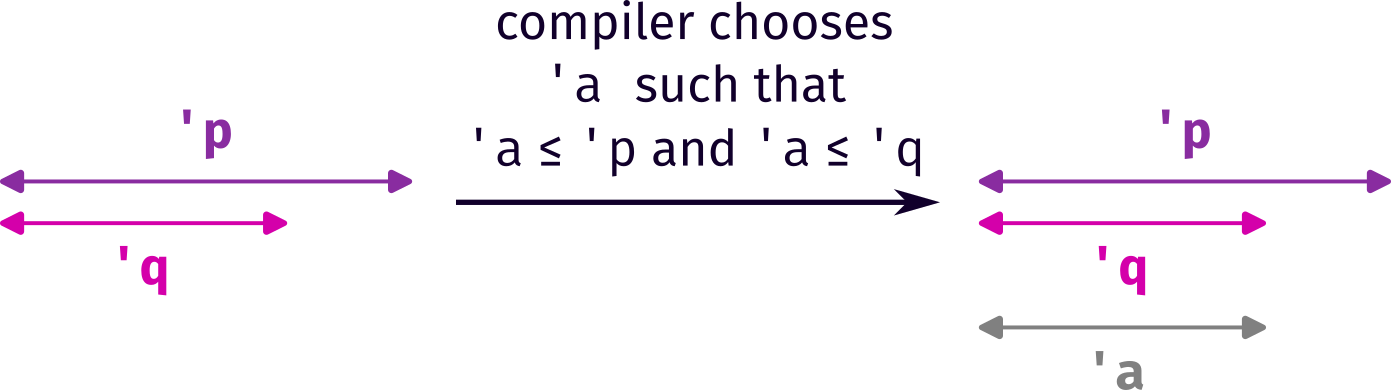
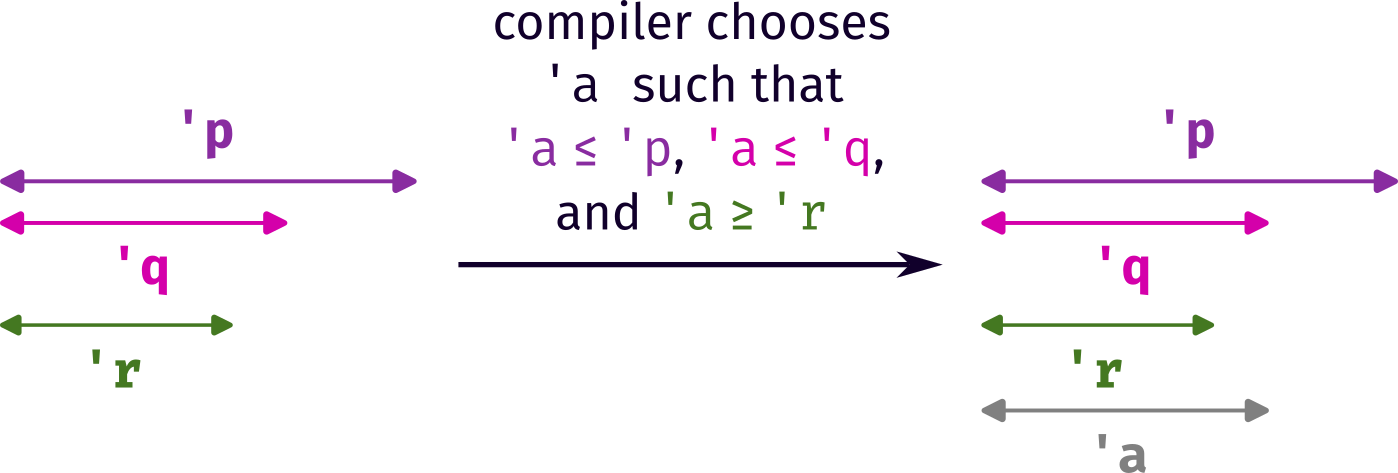
Built site for gh-pages

diff --git a/posts/lifetimes/index.html b/posts/lifetimes/index.html
@@ -172,6 +172,7 @@ pre > code.sourceCode > span > a:first-child::before { text-decoration: underlin
 
 
 <p><em>Disclaimer</em>: I don’t actually write Rust for anything, and the following is <em>entirely</em> based on my interpretation of <em>one single paragraph in the Rust book</em>, so I may be completely wrong.</p>
+<p>(Edited 20 June after some discussion at work. Thanks to everyone who chimed in and helped me to understand this better!)</p>
 <section id="introduction" class="level2">
 <h2 class="anchored" data-anchor-id="introduction">Introduction</h2>
 <p>At today’s Rust reading group we were discussing lifetimes. Most of the features covered in the Rust book until now (such as pattern matching, algebraic data types, traits, and generics) are directly analogous to concepts in Haskell, so I’ve been feeling reasonably comfortable. But lifetimes are something very alien to me.<a href="#fn1" class="footnote-ref" id="fnref1" role="doc-noteref"><sup>1</sup></a></p>
@@ -217,24 +218,21 @@ pre > code.sourceCode > span > a:first-child::before { text-decoration: underlin
 <blockquote class="blockquote">
 <p>Remember, when we specify the lifetime parameters in this function signature, we’re not changing the lifetimes of any values passed in or returned. […] When we pass concrete references to <code>longest</code>, the concrete lifetime that is substituted for <code>'a</code> is the part of the scope of <code>x</code> that overlaps with the scope of <code>y</code>. In other words, the generic lifetime <code>'a</code> will get the concrete lifetime that is equal to the smaller of the lifetimes of <code>x</code> and <code>y</code>. Because we’ve annotated the returned reference with the same lifetime parameter <code>'a,</code> the returned reference will also be valid for the length of the smaller of the lifetimes of <code>x</code> and <code>y</code>.</p>
 </blockquote>
-<p>So, the compiler has to find a concrete value for <code>'a</code> which is valid for both <code>x</code> and <code>y</code>—it must be a subset of both the <em>true</em> lifetimes <code>'p</code> and <code>'q</code>. If it is not possible to do this, then the compiler should complain.<a href="#fn2" class="footnote-ref" id="fnref2" role="doc-noteref"><sup>2</sup></a> Of course, since the two true lifetimes overlap with each other, the compiler can choose <code>'a</code> to be the smaller of the two, which happily satisfies the requirement above.</p>
+<p>So, the compiler has to find a concrete value for <code>'a</code> which is valid for both <code>x</code> and <code>y</code>—it must be a subset of both the <em>true</em> lifetimes <code>'p</code> and <code>'q</code>.</p>
+<p>On top of that, the compiler must also ensure that this lifetime <code>'a</code> is valid wherever the return value is being used. In other words, we must have <code>'a</code> ≥&nbsp;<code>'r</code>.</p>
+<p>If it is not possible to satisfy all of these conditions, then the compiler should complain.<a href="#fn2" class="footnote-ref" id="fnref2" role="doc-noteref"><sup>2</sup></a> Of course, it is not very hard to find a suitable value for <code>'a</code> in this particular case:</p>
 <div class="quarto-figure quarto-figure-center">
 <figure class="figure">
 <p><img src="./rust1.png" class="img-fluid figure-img" width="482"></p>
-<figcaption class="figure-caption">Resolving the lifetime parameters in <code>longest</code>, step 1.</figcaption>
+<figcaption class="figure-caption">Resolving the lifetime parameters in <code>longest</code>.</figcaption>
 </figure>
 </div>
-<p>Notice that we haven’t considered the lifetime of the return value yet, <code>'r</code>. This is because the return lifetime is not used to calculate what <code>'a</code> should be. Instead, once the compiler has calculated <code>'a</code>, it then assigns this lifetime to <code>'r</code>. It must then check that the return value is not used outside of this lifetime.</p>
-<div class="quarto-figure quarto-figure-center">
-<figure class="figure">
-<p><img src="./rust2.png" class="img-fluid figure-img" width="800"></p>
-<figcaption class="figure-caption">Resolving the lifetime parameters in <code>longest</code>, step 2.</figcaption>
-</figure>
-</div>
-<p>I suppose, then, that for a function with annotated lifetimes, there are two ways in which the compiler may complain:</p>
-<ol type="1">
-<li><p><em>The compiler cannot find a lifetime <code>'a</code> which satisfies all input variables.</em> I have not yet been able to come up with an example of this. (Suggestions are welcome.)</p></li>
-<li><p><em>The lifetime <code>'a</code> is found, but the return value is used outside of this.</em> An example of this is provided in Listing 10-23 of the Rust book:</p>
+<p>In this very simple case, the constraints above essentially reduce to <code>min('p', 'q') ≥ 'r'</code>.<a href="#fn3" class="footnote-ref" id="fnref3" role="doc-noteref"><sup>3</sup></a> This is what the book means when it says:</p>
+<blockquote class="blockquote">
+<p>In practice, it means that the lifetime of the reference returned by the <code>longest</code> function is the same as the smaller of the lifetimes of the values referred to by the function arguments.</p>
+</blockquote>
+<p>This also explains why the following snippet (Listing 10-23 in the book) fails to compile. At a high level, we can understand this as the return value <code>result</code> being used outside of the scope of <code>string2</code>.</p>
+<p>However, it would be more precise to say that this is because the compiler cannot find a concrete lifetime <code>'a</code> which simultaneously satisfies all three constraints <code>'a</code> ≤ <code>'p</code>, <code>'a</code> ≤ <code>'q</code>, and <code>'a</code> ≥ <code>'r</code>.</p>
 <div class="sourceCode" id="cb3"><pre class="sourceCode numberSource rust number-lines code-with-copy"><code class="sourceCode rust"><span id="cb3-1"><a href="#cb3-1"></a><span class="kw">fn</span> main() <span class="op">{</span></span>
 <span id="cb3-2"><a href="#cb3-2"></a>    <span class="kw">let</span> string1 <span class="op">=</span> <span class="dt">String</span><span class="pp">::</span>from(<span class="st">"long string is long"</span>)<span class="op">;</span></span>
 <span id="cb3-3"><a href="#cb3-3"></a>    <span class="kw">let</span> result<span class="op">;</span></span>
@@ -243,8 +241,13 @@ pre > code.sourceCode > span > a:first-child::before { text-decoration: underlin
 <span id="cb3-6"><a href="#cb3-6"></a>        result <span class="op">=</span> longest(string1<span class="op">.</span>as_str()<span class="op">,</span> string2<span class="op">.</span>as_str())<span class="op">;</span></span>
 <span id="cb3-7"><a href="#cb3-7"></a>    <span class="op">}</span></span>
 <span id="cb3-8"><a href="#cb3-8"></a>    <span class="pp">println!</span>(<span class="st">"The longest string is {}"</span><span class="op">,</span> result)<span class="op">;</span></span>
-<span id="cb3-9"><a href="#cb3-9"></a><span class="op">}</span></span></code><button title="Copy to Clipboard" class="code-copy-button"><i class="bi"></i></button></pre></div></li>
-</ol>
+<span id="cb3-9"><a href="#cb3-9"></a><span class="op">}</span></span></code><button title="Copy to Clipboard" class="code-copy-button"><i class="bi"></i></button></pre></div>
+<div class="quarto-figure quarto-figure-center">
+<figure class="figure">
+<p><img src="./rust2.png" class="img-fluid figure-img" width="450"></p>
+<figcaption class="figure-caption">An occasion where the lifetime parameters cannot be resolved.</figcaption>
+</figure>
+</div>
 </section>
 <section id="lifetime-bounds" class="level2">
 <h2 class="anchored" data-anchor-id="lifetime-bounds">Lifetime bounds</h2>
@@ -269,11 +272,12 @@ pre > code.sourceCode > span > a:first-child::before { text-decoration: underlin
 <span id="cb4-18"><a href="#cb4-18"></a>    <span class="op">};</span></span>
 <span id="cb4-19"><a href="#cb4-19"></a><span class="op">}</span></span></code><button title="Copy to Clipboard" class="code-copy-button"><i class="bi"></i></button></pre></div>
 <p>Since the <em>true lifetimes</em> of the variables are such that<code>'q</code> &lt; <code>'p</code>, it is not clear why the compiler should accept this. After all, the function signature seems to suggest that the second parameter must outlive the first.</p>
-<p>However, the entire point is that <code>'a</code> and <code>'b</code> are not the same as <code>'p</code> and <code>'q</code>; they are new lifetimes which are determined by the compiler. Going along the lines of the discussion above, the compiler must now find two lifetimes <code>'a</code> and <code>'b</code> which satisfy the following constraints:</p>
+<p>However, the entire point is that <code>'a</code> and <code>'b</code> are not the same as <code>'p</code> and <code>'q</code>; they are new lifetimes which are determined by the compiler. Going along the lines of the discussion above, the compiler must now find two lifetimes <code>'a</code> and <code>'b</code> which together satisfy the following constraints:</p>
 <ol type="1">
 <li><code>'a</code> ≤ <code>'p</code> (because of the first parameter)</li>
 <li><code>'b</code> ≤&nbsp;<code>'q</code> (because of the second parameter)</li>
 <li><code>'b</code> ≥&nbsp;<code>'a</code> (because of the lifetime bound)</li>
+<li><code>'a</code> ≥&nbsp;<code>'r</code> (because of the return value)</li>
 </ol>
 <p>One can see that if we instantiate <em>both</em> lifetimes <code>'a</code> and <code>'b</code> as being equal to <code>'q</code>, then all three of these requirements are met.</p>
 <div class="quarto-figure quarto-figure-center">
@@ -286,18 +290,17 @@ pre > code.sourceCode > span > a:first-child::before { text-decoration: underlin
 <section id="is-longest2-more-restrictive" class="level2">
 <h2 class="anchored" data-anchor-id="is-longest2-more-restrictive">Is <code>longest2</code> more restrictive?</h2>
 <p>With this knowledge, we might now consider whether there any possible cases in which using <code>longest2</code> will raise a compiler error, while <code>longest</code> compiles just fine. (Or <em>vice versa</em>!)</p>
-<p>My inclination is <em>no</em>: in other words, I think <code>longest</code> and <code>longest2</code> are entirely equivalent. My proof is only halfway there, though.</p>
+<p>I think not, because:</p>
 <ul>
 <li><p><strong>If we can satisfy the function signature for <code>longest</code>, then we can satisfy that for <code>longest2</code>.</strong></p>
-<p>If we have a valid call to <code>longest</code>, that means that there exists some lifetime <code>'a</code> which satisfies both <code>'a</code> ≤ <code>'p</code> and <code>'a</code> ≤ <code>'q'</code>.</p>
-<p>If we then switch this call to one of <code>longest2</code>, we need to find a new lifetime <code>'b</code> which obeys the three requirements above, namely: <code>'a</code> ≤ <code>'p</code>, <code>'b</code> ≤&nbsp;<code>'q</code>, and <code>'b</code> ≥&nbsp;<code>'a</code>. The first of these is already satisfied, and we can satisfy the other two by simply choosing <code>'b</code> to be equal to <code>'a</code>, making the call to <code>longest2</code> also valid.</p></li>
+<p>If we have a valid call to <code>longest</code>, that means that there already exists some lifetime <code>'a</code> which satisfies <code>'a</code> ≤ <code>'p</code>, <code>'a</code> ≤ <code>'q'</code>, and <code>'a</code> ≥&nbsp;<code>'r</code>.</p>
+<p>If we then switch this call to one of <code>longest2</code>, we need to find a new lifetime <code>'b</code> which obeys the four requirements above, namely: <code>'a</code> ≤ <code>'p</code>, <code>'b</code> ≤&nbsp;<code>'q</code>, <code>'b</code> ≥&nbsp;<code>'a</code>, and <code>'a</code> ≥&nbsp;<code>'r</code>.</p>
+<p>The first and last of these are already satisfied, and we can satisfy the other two by simply choosing <code>'b</code> to be equal to <code>'a</code>, making the call to <code>longest2</code> also valid.</p></li>
 <li><p><strong>If we can satisfy the function signature for <code>longest2</code>, then we can satisfy that for <code>longest</code>.</strong></p>
-<p>If we have a valid call to <code>longest2</code>, then there exists two lifetimes <code>'a</code> and <code>'b</code> which satisfy <code>'a</code> ≤ <code>'p</code>, <code>'b</code> ≤&nbsp;<code>'q</code>, and <code>'b</code> ≥&nbsp;<code>'a</code>.</p>
-<p>The requirements for <code>longest</code> are that we must find a lifetime <code>'c</code> (different letter chosen to avoid clashes) for which <code>'c</code> ≤ <code>'p</code> and <code>'c</code> ≤&nbsp;<code>'q</code>. If we just choose <code>'c</code> to be equal to <code>'a</code>, we are done.</p></li>
+<p>If we have a valid call to <code>longest2</code>, then there exist two lifetimes <code>'a</code> and <code>'b</code> which satisfy <code>'a</code> ≤ <code>'p</code>, <code>'b</code> ≤&nbsp;<code>'q</code>, <code>'b</code> ≥&nbsp;<code>'a</code>, and <code>'a</code> ≥&nbsp;<code>'r</code>.</p>
+<p>The requirements for <code>longest</code> are that we must find a lifetime <code>'c</code> (different letter chosen to avoid clashes) for which <code>'c</code> ≤ <code>'p</code>, <code>'c</code> ≤&nbsp;<code>'q</code>, and <code>'c</code> ≥&nbsp;<code>'r</code>. If we just choose <code>'c</code> to be equal to <code>'a</code>, we are done.</p></li>
 </ul>
-<p>Collectively, this means that any combination of <em>inputs</em> that forms a valid call to <code>longest</code> will also form a valid call to <code>longest2</code>, and <em>vice versa</em>.</p>
-<p>The catch is that there’s also a lifetime for the <em>return value</em> to consider. In theory, it could be possible that the values returned by <code>longest</code> and <code>longest2</code> might have different lifetimes, and thus it would be possible to use a value obtained from <code>longest</code> in a location where using a value from <code>longest2</code> would lead to an error (or <em>vice versa</em>).</p>
-<p>To be clear, I don’t actually think this is the case. Intuitively, it seems to me that the return lifetime <code>'r</code> should be resolved to the same value in both cases, namely the intersection of the true lifetimes <code>'p</code> and <code>'q</code>; but I haven’t actually proven this. One for another post, perhaps…</p>
+<p>Collectively, this means that any valid call to <code>longest</code> can be replaced with a valid call to <code>longest2</code> (and <em>vice versa</em>).</p>
 
 
 </section>
@@ -308,6 +311,7 @@ pre > code.sourceCode > span > a:first-child::before { text-decoration: underlin
 <ol>
 <li id="fn1"><p>Haskell is garbage-collected.<a href="#fnref1" class="footnote-back" role="doc-backlink">↩</a></p></li>
 <li id="fn2"><p>In other words, this is an <em>existential quantifier</em>: the compiler must prove that there exists some lifetime <code>'a</code> such that <code>'a</code> ≤&nbsp;<code>'p</code> and <code>'a</code> ≤ <code>'q</code>.<a href="#fnref2" class="footnote-back" role="doc-backlink">↩</a></p></li>
+<li id="fn3"><p>Perhaps we should talk about the <em>intersection</em> of <code>'p</code> and <code>'q</code>, rather than the minimum. But in this case, they are the same thing.<a href="#fnref3" class="footnote-back" role="doc-backlink">↩</a></p></li>
 </ol>
 </section></div></main> <!-- /main -->
 <script id="quarto-html-after-body" type="application/javascript">

diff --git a/index.html b/index.html
@@ -168,7 +168,7 @@ ul.task-list li input[type="checkbox"] {
 
 <div class="quarto-listing quarto-listing-container-default" id="listing-listing">
 <div class="list quarto-listing-default">
-<div class="quarto-post image-right" data-index="0" data-categories="rust" data-listing-date-sort="1687132800000" data-listing-file-modified-sort="1687218037748" data-listing-date-modified-sort="NaN" data-listing-reading-time-sort="9">
+<div class="quarto-post image-right" data-index="0" data-categories="rust" data-listing-date-sort="1687132800000" data-listing-file-modified-sort="1687366632358" data-listing-date-modified-sort="NaN" data-listing-reading-time-sort="8">
 <div class="thumbnail">
 <p><a href="./posts/lifetimes/index.html"> <p class="card-img-top"><img src="posts/lifetimes/rust1.png"  class="thumbnail-image card-img"/></p> </a></p>
 </div>
@@ -200,7 +200,7 @@ Jun 19, 2023
 </a>
 </div>
 </div>
-<div class="quarto-post image-right" data-index="1" data-categories="news" data-listing-date-sort="1677628800000" data-listing-file-modified-sort="1687218037748" data-listing-date-modified-sort="NaN" data-listing-reading-time-sort="1">
+<div class="quarto-post image-right" data-index="1" data-categories="news" data-listing-date-sort="1677628800000" data-listing-file-modified-sort="1687366632358" data-listing-date-modified-sort="NaN" data-listing-reading-time-sort="1">
 <div class="thumbnail">
 <p><a href="./posts/hello/index.html"> <div class="listing-item-img-placeholder card-img-top" >&nbsp;</div> </a></p>
 </div>
